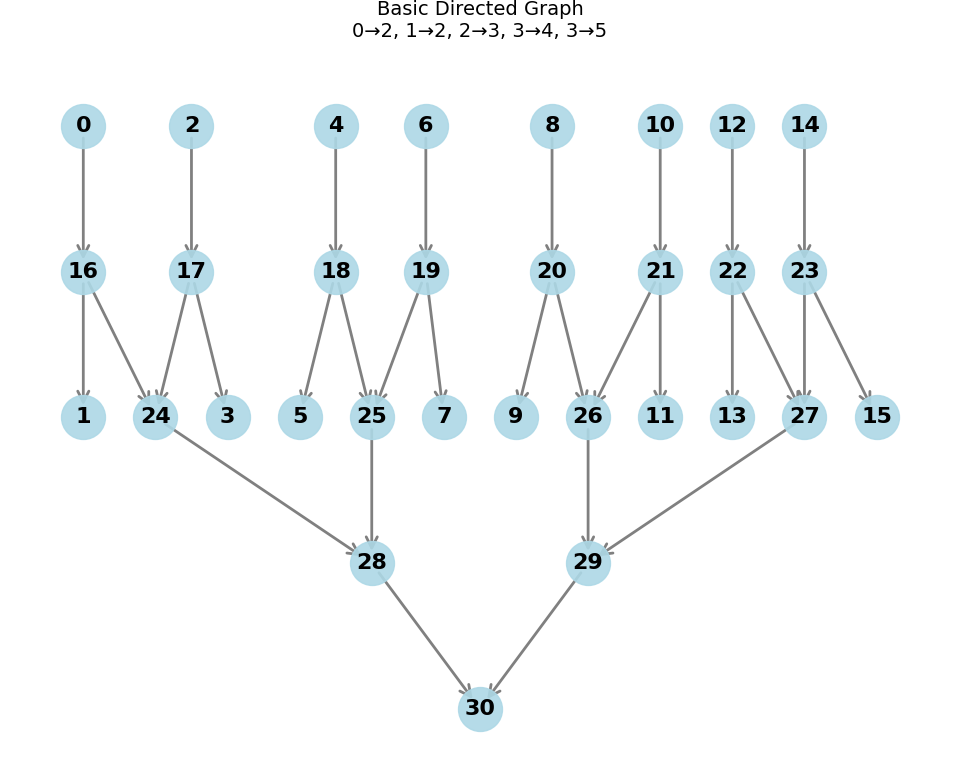
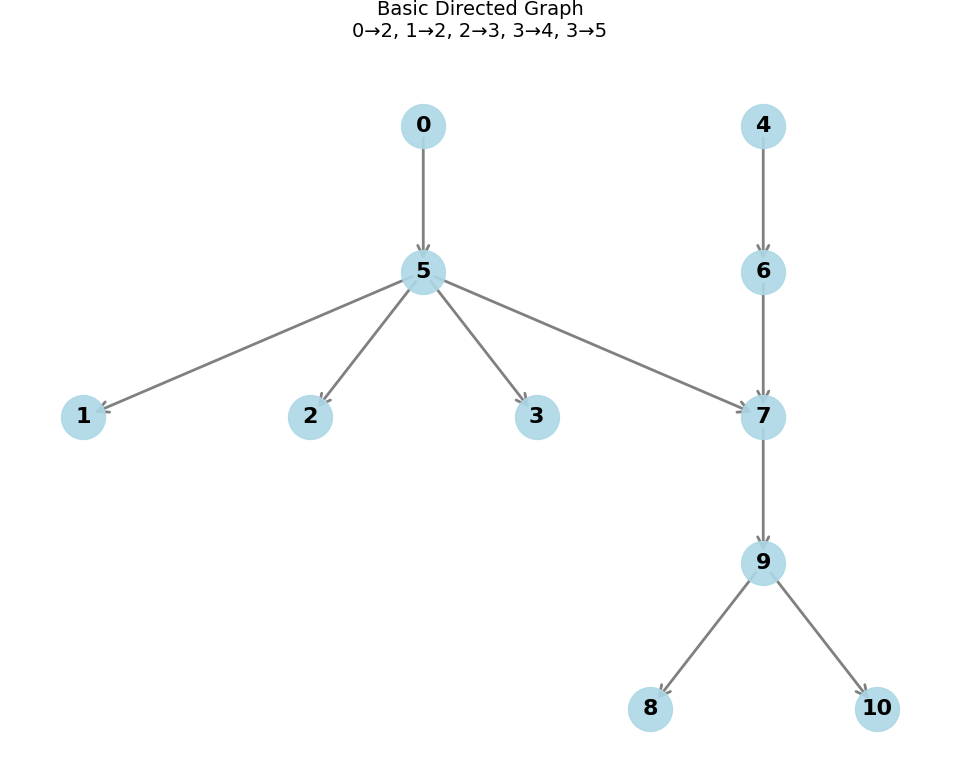
Allowed for early exiting without crashing

diff --git a/src/main.cpp b/src/main.cpp
@@ -66,6 +66,8 @@ int main(int argc, char* argv[])
         std::cout << "No mutation method specified. Defaulting to NAIVE." << std::endl;
     }
 
+#if HAVE_PYTHON
+
     util::PlotType plotType = util::NONE;
     if (args.flagMap.find("--plot-type") != args.flagMap.end()) {
         std::string plotTypeStr = args.flagMap.at("--plot-type");
@@ -77,8 +79,6 @@ int main(int argc, char* argv[])
             std::cout << "Using plot type: " << plotTypeStr << std::endl;
         }
     }
-
-#if HAVE_PYTHON
 
     if (plotType & util::ALL_MASK) {
 
@@ -107,29 +107,31 @@ int main(int argc, char* argv[])
             // Start the visualization loop in the main thread
             viz::visualizationLoop(viz);
 
-            // Ensure the annealing thread has finished before proceeding
-            while (!viz.threadControls->shouldStop.load()) {
-                std::this_thread::sleep_for(std::chrono::milliseconds(100));
-            }
-
+            while (!annealThread.joinable())
+                ;
             annealThread.join();
 
-            if (args.flagMap.find("--save-figures") != args.flagMap.end()) {
+            if (!viz.threadControls->stoppedEarly.load()) {
+                if (args.flagMap.find("--save-figures") != args.flagMap.end()) {
 
-                // Get the save figures flag and check if it's true
-                std::string saveFigures = args.flagMap.at("--save-figures");
-                if (util::toLower(saveFigures) == "true") {
+                    // Get the save figures flag and check if it's true
+                    std::string saveFigures = args.flagMap.at("--save-figures");
+                    if (util::toLower(saveFigures) == "true") {
 
-                    // If it is, check for the figure-path flag
-                    std::string figurePath = "./";
-                    if (args.flagMap.find("--figure-path") != args.flagMap.end()) {
-                        figurePath = args.flagMap.at("--figure-path");
+                        // If it is, check for the figure-path flag
+                        std::string figurePath = "./";
+                        if (args.flagMap.find("--figure-path") != args.flagMap.end()) {
+                            figurePath = args.flagMap.at("--figure-path");
+                        }
+
+                        std::cout << "Saving figures to: " << figurePath << std::endl;
+                        viz.saveFigures(figurePath + "grid.gif", figurePath + "grid.png",
+                            figurePath + "graph.png", figurePath + "stats.png");
                     }
-
-                    std::cout << "Saving figures to: " << figurePath << std::endl;
-                    viz.saveFigures(figurePath + "grid.gif", figurePath + "grid.png",
-                        figurePath + "graph.png", figurePath + "stats.png");
                 }
+            } else {
+                std::cout << "Annealing process terminated early, skipping figure save."
+                          << std::endl;
             }
 
             viz.shutdown();

diff --git a/src/pyViz.cpp b/src/pyViz.cpp
@@ -413,8 +413,7 @@ void PyVisualizer::saveFigures(const std::string& gridAnimationFilename,
 void PyVisualizer::onWindowCloseCallback()
 {
     {
-        while (!this->threadControls->queueMutex.try_lock())
-            std::this_thread::sleep_for(std::chrono::microseconds(100));
+        std::unique_lock<std::mutex> lock(this->threadControls->queueMutex);
         this->threadControls->shouldStop.store(true);
     }
     this->threadControls->queueCondition.notify_all();
@@ -491,7 +490,7 @@ void visualizationLoop(PyVisualizer& viz)
 
     while (!viz.threadControls->shouldStop.load()) {
 
-        std::vector<VizUpdate> updates;
+        VizUpdate update;
 
         {
             std::unique_lock<std::mutex> lock(viz.threadControls->queueMutex);
@@ -505,11 +504,9 @@ void visualizationLoop(PyVisualizer& viz)
             if (viz.threadControls->shouldStop.load() && viz.threadControls->messageQueue.empty())
                 break;
 
-            updates.reserve(viz.threadControls->messageQueue.size());
-
             // Process all queued updates
-            while (!viz.threadControls->messageQueue.empty()) {
-                updates.push_back(std::move(viz.threadControls->messageQueue.front()));
+            if (!viz.threadControls->messageQueue.empty()) {
+                update = std::move(viz.threadControls->messageQueue.front());
                 viz.threadControls->messageQueue.pop();
             }
         }
@@ -518,9 +515,13 @@ void visualizationLoop(PyVisualizer& viz)
         viz.keepAlive(0.01);
 
         // Process updates outside the lock
-        for (const auto& update : updates) {
-            viz.updateViz(update.positions, update.score);
-        }
+        viz.updateViz(update.positions, update.score);
+    }
+
+    {
+        std::unique_lock<std::mutex> lock(viz.threadControls->queueMutex);
+        std::queue<VizUpdate> empty;
+        std::swap(viz.threadControls->messageQueue, empty);
     }
 }
 

diff --git a/src/simulateAnnealing.cpp b/src/simulateAnnealing.cpp
@@ -254,6 +254,16 @@ void simulateAnnealing(
     double temperature = INITIAL_TEMPERATURE;
     int iteration = 0;
     while (temperature > THRESHOLD_TEMPERATURE) {
+
+        if (vizThreadControls) {
+            if (vizThreadControls->shouldStop.load()) {
+                std::cout << "Annealing process received stop signal, terminating early."
+                          << std::endl;
+                vizThreadControls->stoppedEarly.store(true);
+                return;
+            }
+        }
+
         // Generate a new solution by randomly swapping two vertex positions
         SolutionAlterations alterations = mutationMethod(graph, generator, srcVertexDistribution,
             dstVertexDistribution, probabilityDistribution);
@@ -292,10 +302,8 @@ void simulateAnnealing(
             update.positions = graph.getCopyVertexPositions();
 
             {
-                while (!vizThreadControls->queueMutex.try_lock())
-                    std::this_thread::sleep_for(1ms);
+                std::unique_lock<std::mutex> lock(vizThreadControls->queueMutex);
                 vizThreadControls->messageQueue.push(update);
-                vizThreadControls->queueMutex.unlock();
             }
             vizThreadControls->queueCondition.notify_one();
 
@@ -318,10 +326,8 @@ void simulateAnnealing(
         update.positions = graph.getCopyVertexPositions();
 
         {
-            while (!vizThreadControls->queueMutex.try_lock())
-                std::this_thread::sleep_for(1ms);
+            std::unique_lock<std::mutex> lock(vizThreadControls->queueMutex);
             vizThreadControls->messageQueue.push(update);
-            vizThreadControls->queueMutex.unlock();
         }
         vizThreadControls->queueCondition.notify_one();
 

diff --git a/scripts/Viz.py b/scripts/Viz.py
@@ -89,8 +89,7 @@ class Viz:
         plt.pause(pause_time)
         plt.show(block=False)
 
-    def on_close(self, event):
-        print("Visualization window closed.")
+    def on_close(self, _):
         if self.close_callback:
             self.close_callback()
         self.shutdown_requested = True

diff --git a/include/util.hpp b/include/util.hpp
@@ -77,6 +77,7 @@ template <typename MessageType> struct ThreadControls {
     std::mutex queueMutex;
     std::condition_variable queueCondition;
     std::atomic<bool> shouldStop { false };
+    std::atomic<bool> stoppedEarly { false };
 
     ThreadControls() = default;
 };
